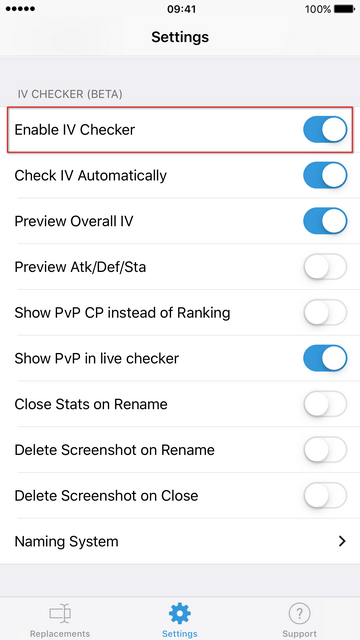
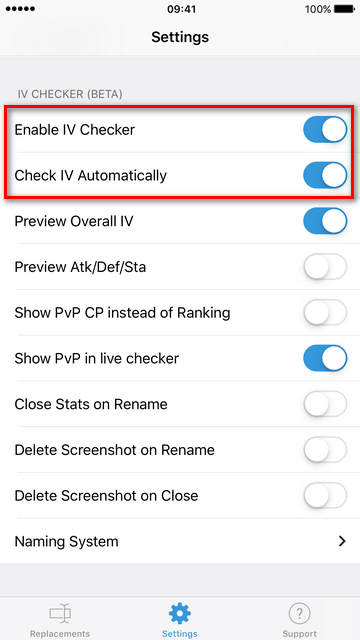
Improve Live IV guide

Changed region(s): [[0.0, 0.1562, 1.0, 0.3438]]

diff --git a/Support/Deutsch/README.md b/Support/Deutsch/README.md
@@ -44,7 +44,7 @@
 ## Live IV Check aktivieren
 
 1. Die Entwicklung von "PokéKeys" unterstützen und damit die Pro-Features frei schalten (jede Unterstützung schaltet Pro frei)
-2. Die Option "Enable IV Checker" aktivieren
+2. Die Optionen "Enable IV Checker" und "Check IV automatically" aktivieren
 3. Das Kontrollzentrum öffnen und fest auf das Aufnahme-Symbol drücken (3D Touch)
 4. Die Option "Live IV Check" auswählen und "Übertragung starten" drücken
 5. "Pokémon go" App öffnen - ein roter Aufnahme-Banner sollte zu sehen sein

diff --git a/Support/English/README.md b/Support/English/README.md
@@ -44,7 +44,7 @@
 ## Enable Live IV Check
 
 1. Support the development of "PokéKeys" and unlock pro features (every option unlocks pro)
-2. Enable "Enable IV Checker"
+2. Enable "Enable IV Checker" and "Check IV automatically"
 3. Open Control Centre and press screen recording button (3D Touch)
 4. Activate "Live IV Check" and press "Start Broadcast"
 5. Open "Pokémon go" app - a red banner should appear to signalise screen recording
